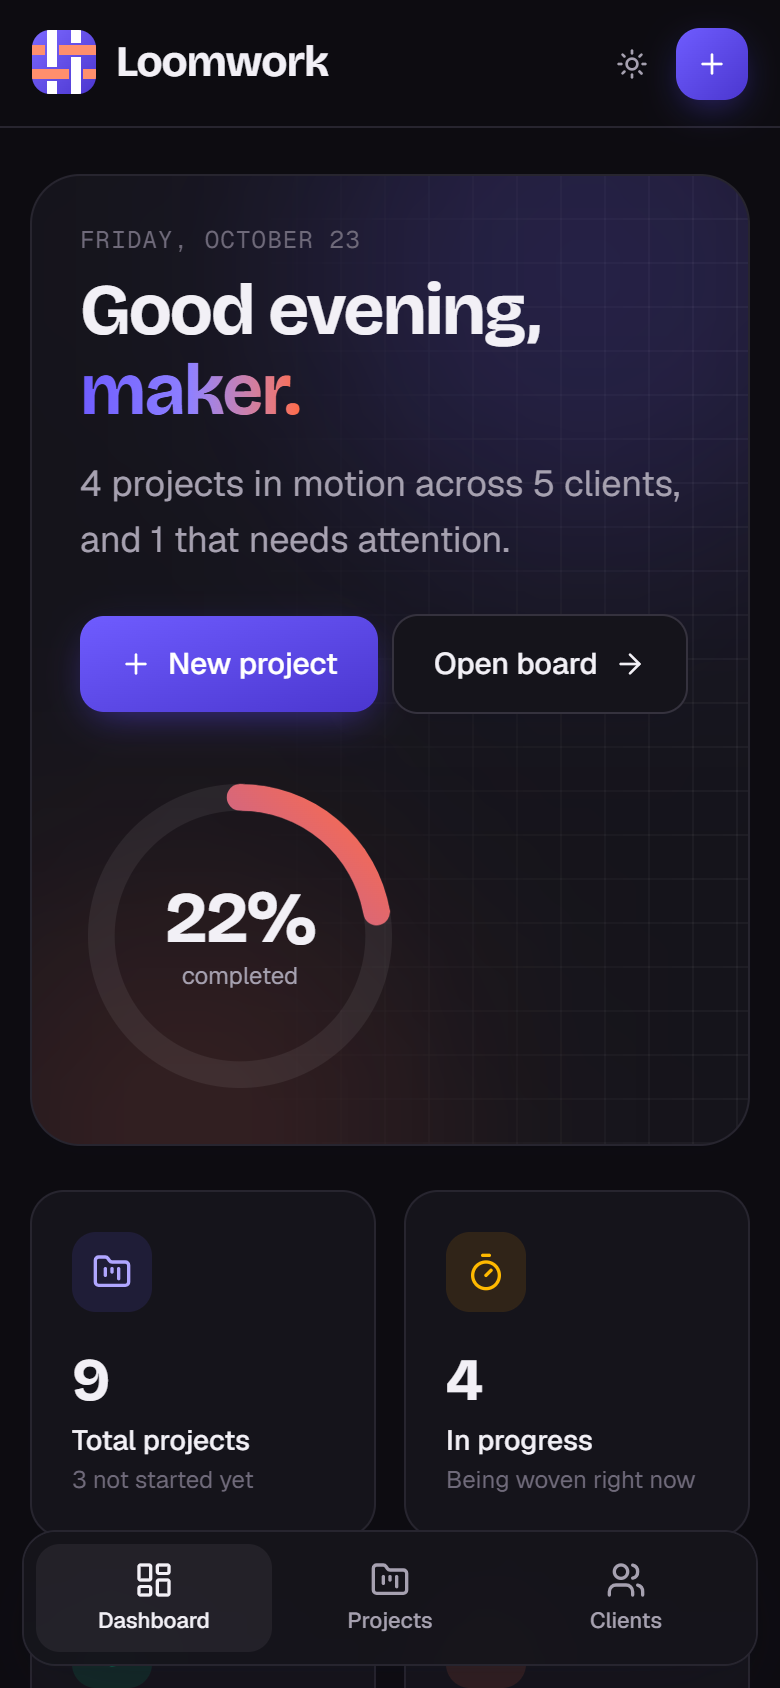
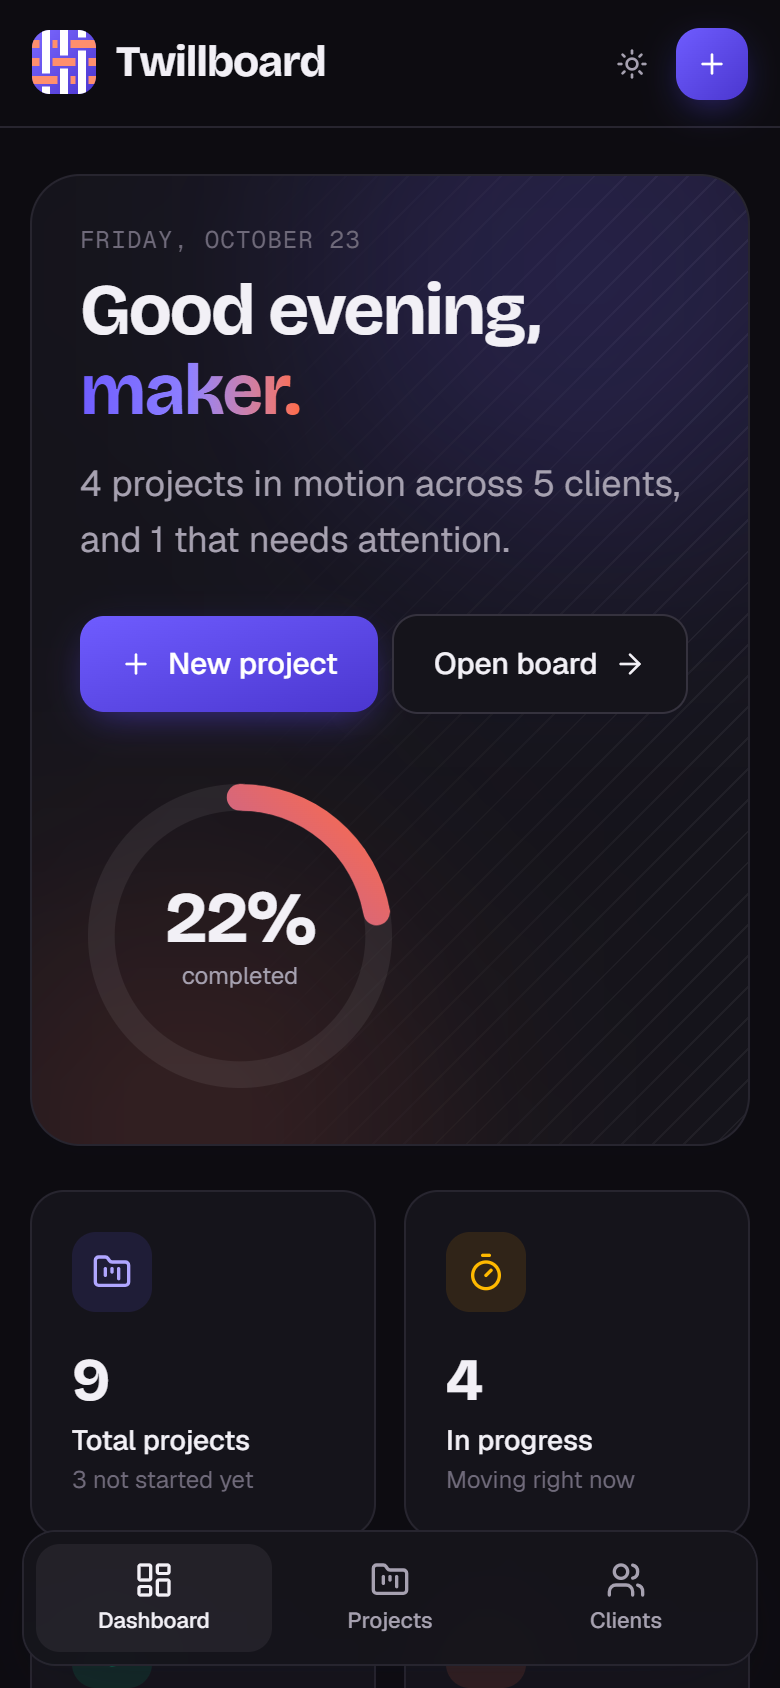
Rename Loomwork to Twillboard
loomwork.vercel.app is taken, so the app is now Twillboard
(twillboard.vercel.app is free).

- New 2/1 twill-weave logo: white warp over two coral wefts, under
  one, forming twill's diagonal; regenerated favicon, app icons,
  manifest and social image
- Background texture changed from a square grid to diagonal twill ribs
- Brand colour tokens renamed loom-* → twill-*; theme storage key,
  page titles, GraphiQL title, copy, README and env example updated
- Refreshed README screenshots

Changed region(s): [[0.5846, 0.8626, 0.8923, 0.8934], [0.1538, 0.0, 0.4308, 0.0616], [0.0308, 0.0, 0.1231, 0.0616]]

diff --git a/client/src/pages/Dashboard.jsx b/client/src/pages/Dashboard.jsx
@@ -42,7 +42,7 @@ function CompletionRing({ rate }) {
       <svg viewBox="0 0 120 120" className="size-full -rotate-90">
         <defs>
           <linearGradient id={id} x1="0" y1="0" x2="1" y2="1">
-            <stop offset="0%" stopColor="var(--color-loom-500)" />
+            <stop offset="0%" stopColor="var(--color-twill-500)" />
             <stop offset="100%" stopColor="var(--color-thread-500)" />
           </linearGradient>
         </defs>
@@ -160,19 +160,19 @@ function ProjectRow({ project, meta }) {
 function Onboarding() {
   const { newClient, newProject } = useWorkspace();
   const steps = [
-    { icon: UserPlus, title: "Add a client", text: "Every project is woven to a client.", action: newClient, cta: "Add client" },
+    { icon: UserPlus, title: "Add a client", text: "Every project belongs to a client.", action: newClient, cta: "Add client" },
     { icon: FolderKanban, title: "Create a project", text: "Set a priority and a deadline.", action: () => newProject(), cta: "New project" },
     { icon: Sparkles, title: "Move it along", text: "Drag cards across the board as work progresses." },
   ];
   return (
     <Card className="p-6 sm:p-8">
-      <h2 className="font-display text-xl font-bold tracking-tight">Let’s set up your loom</h2>
+      <h2 className="font-display text-xl font-bold tracking-tight">Let’s set up your board</h2>
       <p className="mt-1 text-sm text-muted">Three steps and your dashboard comes alive.</p>
       <ol className="mt-6 grid gap-4 sm:grid-cols-3">
         {steps.map((step, index) => (
           <li key={step.title} className="rounded-2xl bg-elevated p-5 ring-1 ring-line">
             <div className="flex items-center justify-between">
-              <step.icon className="size-5 text-loom-600 dark:text-loom-300" />
+              <step.icon className="size-5 text-twill-600 dark:text-twill-300" />
               <span className="font-mono text-xs text-subtle">0{index + 1}</span>
             </div>
             <p className="mt-4 font-semibold">{step.title}</p>
@@ -236,7 +236,7 @@ export default function Dashboard() {
   const inMotion = count("IN_PROGRESS");
   const summary =
     s.totalProjects === 0
-      ? "Your loom is empty — let’s weave your first project."
+      ? "Your board is empty — let’s stitch in your first project."
       : `${pluralize(inMotion, "project")} in motion across ${pluralize(s.totalClients, "client")}` +
         (overdue.length ? `, and ${overdue.length} that need${overdue.length === 1 ? "s" : ""} attention.` : ". Everything is on schedule.");
 
@@ -244,8 +244,8 @@ export default function Dashboard() {
     <div className="space-y-6">
       {/* Hero */}
       <section className="relative animate-rise overflow-hidden rounded-3xl bg-surface p-6 shadow-soft ring-1 ring-line sm:p-8">
-        <div className="bg-weave absolute inset-0 [mask-image:linear-gradient(to_left,black,transparent_70%)]" />
-        <div className="absolute -top-24 -right-16 size-72 rounded-full bg-loom-500/20 blur-3xl" />
+        <div className="bg-twill absolute inset-0 [mask-image:linear-gradient(to_left,black,transparent_70%)]" />
+        <div className="absolute -top-24 -right-16 size-72 rounded-full bg-twill-500/20 blur-3xl" />
         <div className="absolute -bottom-28 right-40 size-60 rounded-full bg-thread-500/15 blur-3xl" />
 
         <div className="relative flex flex-col items-start gap-8 md:flex-row md:items-center md:justify-between">
@@ -278,14 +278,14 @@ export default function Dashboard() {
               label="Total projects"
               value={s.totalProjects}
               caption={`${count("NOT_STARTED")} not started yet`}
-              tone="bg-loom-500/12 text-loom-600 dark:text-loom-300"
+              tone="bg-twill-500/12 text-twill-600 dark:text-twill-300"
               delay={60}
             />
             <StatTile
               icon={Timer}
               label="In progress"
               value={inMotion}
-              caption="Being woven right now"
+              caption="Moving right now"
               tone="bg-amber-500/12 text-amber-600 dark:text-amber-400"
               delay={120}
             />

diff --git a/client/src/index.css b/client/src/index.css
@@ -15,7 +15,7 @@
   --ink: #1b1a1f;
   --muted: #67636e;
   --subtle: #9a96a0;
-  --weave: rgb(27 26 31 / 0.05);
+  --twill-rib: rgb(27 26 31 / 0.06);
   color-scheme: light;
 }
 
@@ -28,7 +28,7 @@
   --ink: #f2f0f6;
   --muted: #a6a1b0;
   --subtle: #6f6a7a;
-  --weave: rgb(255 255 255 / 0.04);
+  --twill-rib: rgb(255 255 255 / 0.05);
   color-scheme: dark;
 }
 
@@ -48,17 +48,17 @@
   --font-display: "Bricolage Grotesque", "Geist", ui-sans-serif, system-ui, sans-serif;
   --font-mono: "Geist Mono", ui-monospace, "SFMono-Regular", Menlo, Consolas, monospace;
 
-  /* Brand: "loom" violet and "thread" coral, taken from the logo. */
-  --color-loom-50: #f2f1ff;
-  --color-loom-100: #e6e3ff;
-  --color-loom-200: #d0cbff;
-  --color-loom-300: #b0a6ff;
-  --color-loom-400: #8f80ff;
-  --color-loom-500: #6f5cff;
-  --color-loom-600: #5b45f0;
-  --color-loom-700: #4b36cf;
-  --color-loom-800: #3d2ea6;
-  --color-loom-900: #332a82;
+  /* Brand: "twill" violet and "thread" coral, taken from the logo. */
+  --color-twill-50: #f2f1ff;
+  --color-twill-100: #e6e3ff;
+  --color-twill-200: #d0cbff;
+  --color-twill-300: #b0a6ff;
+  --color-twill-400: #8f80ff;
+  --color-twill-500: #6f5cff;
+  --color-twill-600: #5b45f0;
+  --color-twill-700: #4b36cf;
+  --color-twill-800: #3d2ea6;
+  --color-twill-900: #332a82;
 
   --color-thread-300: #ffb59f;
   --color-thread-400: #ff8f6d;
@@ -93,11 +93,11 @@
   }
 
   ::selection {
-    @apply bg-loom-500/25;
+    @apply bg-twill-500/25;
   }
 
   :focus-visible {
-    @apply outline-2 outline-offset-2 outline-loom-500;
+    @apply outline-2 outline-offset-2 outline-twill-500;
   }
 
   input[type="date"]::-webkit-calendar-picker-indicator {
@@ -106,15 +106,13 @@
 }
 
 @layer components {
-  /* Signature woven-grid texture used behind hero areas. */
-  .bg-weave {
-    background-image:
-      repeating-linear-gradient(90deg, var(--weave) 0 1px, transparent 1px 22px),
-      repeating-linear-gradient(0deg, var(--weave) 0 1px, transparent 1px 22px);
+  /* Signature twill texture (fine diagonal ribs, like denim) behind hero areas. */
+  .bg-twill {
+    background-image: repeating-linear-gradient(-45deg, var(--twill-rib) 0 1px, transparent 1px 11px);
   }
 
   .text-gradient {
-    @apply bg-linear-to-r from-loom-500 via-loom-400 to-thread-500 bg-clip-text text-transparent;
+    @apply bg-linear-to-r from-twill-500 via-twill-400 to-thread-500 bg-clip-text text-transparent;
   }
 }
 

diff --git a/client/index.html b/client/index.html
@@ -3,10 +3,10 @@
   <head>
     <meta charset="UTF-8" />
     <meta name="viewport" content="width=device-width, initial-scale=1.0" />
-    <title>Loomwork — Weave clients and projects into one clear picture</title>
+    <title>Twillboard — Clients and projects, woven into one board.</title>
     <meta
       name="description"
-      content="Loomwork is a calm, fast project manager for freelancers and small studios. Track clients, projects, deadlines and progress in one place."
+      content="Twillboard is a calm, fast project manager for freelancers and small studios. Track clients, projects, deadlines and progress in one place."
     />
     <meta name="theme-color" content="#f7f5f2" media="(prefers-color-scheme: light)" />
     <meta name="theme-color" content="#0d0c11" media="(prefers-color-scheme: dark)" />
@@ -17,8 +17,8 @@
     <link rel="manifest" href="/manifest.webmanifest" />
 
     <meta property="og:type" content="website" />
-    <meta property="og:title" content="Loomwork" />
-    <meta property="og:description" content="Weave clients and projects into one clear picture." />
+    <meta property="og:title" content="Twillboard" />
+    <meta property="og:description" content="Clients and projects, woven into one board." />
     <meta property="og:image" content="/og-image.png" />
     <meta name="twitter:card" content="summary_large_image" />
 
@@ -32,14 +32,14 @@
     <!-- Apply the saved theme before first paint to avoid a light/dark flash. -->
     <script>
       try {
-        const saved = localStorage.getItem("loomwork-theme");
+        const saved = localStorage.getItem("twillboard-theme");
         const dark = saved ? saved === "dark" : matchMedia("(prefers-color-scheme: dark)").matches;
         document.documentElement.classList.toggle("dark", dark);
       } catch {}
     </script>
   </head>
   <body>
-    <noscript>Loomwork needs JavaScript enabled to run.</noscript>
+    <noscript>Twillboard needs JavaScript enabled to run.</noscript>
     <div id="root"></div>
     <script type="module" src="/src/main.jsx"></script>
   </body>

diff --git a/client/src/components/brand/Logo.jsx b/client/src/components/brand/Logo.jsx
@@ -1,10 +1,10 @@
 import { useId } from "react";
 
-// The Loomwork mark: a swatch of plain-weave fabric. Two warp (white) and two
-// weft (coral) threads cross over/under each other — clients and projects
-// interlaced. Each "under" strand is drawn with a gap where the "over" strand
-// crosses it, and threads run off the clipped edges like cut cloth.
-// Keep in sync with public/favicon.svg.
+// The Twillboard mark: a swatch of 2/1 twill. Each white warp thread passes
+// over two coral weft threads and under one, shifting a step per row, so the
+// coral "under" points line up into twill's signature diagonal. Each "under"
+// strand is drawn with a gap where the "over" strand crosses it, and threads
+// run off the clipped edges like cut cloth. Keep in sync with public/favicon.svg.
 export function LogoMark({ className = "size-8" }) {
   const id = useId();
   return (
@@ -19,9 +19,12 @@ export function LogoMark({ className = "size-8" }) {
         </clipPath>
       </defs>
       <rect width="32" height="32" rx="9" fill={`url(#${id}-bg)`} />
-      <g strokeWidth="5" fill="none" clipPath={`url(#${id}-clip)`}>
-        <path d="M10 0v18.5M10 25.5V32M22 0v6.5M22 13.5V32" stroke="#fff" />
-        <path d="M0 10h6.5M13.5 10H32M0 22h18.5M25.5 22H32" stroke="#ff8f6d" />
+      <g strokeWidth="4" fill="none" clipPath={`url(#${id}-clip)`}>
+        <path d="M7 0V21.75M7 28.25V32M16 0V12.75M16 19.25V32M25 0V3.75M25 10.25V32" stroke="#fff" />
+        <path
+          d="M0 7H3.75M10.25 7H12.75M19.25 7H32M0 16H3.75M10.25 16H21.75M28.25 16H32M0 25H12.75M19.25 25H21.75M28.25 25H32"
+          stroke="#ff8f6d"
+        />
       </g>
     </svg>
   );
@@ -31,7 +34,7 @@ export function Logo({ className = "" }) {
   return (
     <span className={`flex items-center gap-2.5 ${className}`}>
       <LogoMark />
-      <span className="font-display text-[1.35rem] font-bold tracking-tight">Loomwork</span>
+      <span className="font-display text-[1.35rem] font-bold tracking-tight">Twillboard</span>
     </span>
   );
 }

diff --git a/client/src/components/layout/AppLayout.jsx b/client/src/components/layout/AppLayout.jsx
@@ -39,8 +39,8 @@ function Sidebar() {
   const { newProject } = useWorkspace();
   return (
     <aside className="fixed inset-y-0 left-0 z-30 hidden w-64 flex-col border-r border-line bg-surface/70 backdrop-blur-xl lg:flex">
-      <div className="bg-weave relative px-6 pt-6 pb-5 [mask-image:linear-gradient(black_60%,transparent)]">
-        <NavLink to="/" aria-label="Loomwork home">
+      <div className="bg-twill relative px-6 pt-6 pb-5 [mask-image:linear-gradient(black_60%,transparent)]">
+        <NavLink to="/" aria-label="Twillboard home">
           <Logo />
         </NavLink>
       </div>
@@ -68,9 +68,9 @@ function Sidebar() {
           >
             {({ isActive }) => (
               <>
-                <Icon className={`size-[18px] ${isActive ? "text-loom-600 dark:text-loom-300" : ""}`} />
+                <Icon className={`size-[18px] ${isActive ? "text-twill-600 dark:text-twill-300" : ""}`} />
                 {label}
-                {isActive && <span className="ml-auto h-4 w-1 rounded-full bg-linear-to-b from-loom-500 to-thread-500" />}
+                {isActive && <span className="ml-auto h-4 w-1 rounded-full bg-linear-to-b from-twill-500 to-thread-500" />}
               </>
             )}
           </NavLink>
@@ -82,7 +82,7 @@ function Sidebar() {
           <Kbd>N</Kbd> project <Kbd>C</Kbd> client
         </p>
         <div className="flex items-center justify-between">
-          <p className="text-xs text-subtle">Woven with GraphQL</p>
+          <p className="text-xs text-subtle">Stitched with GraphQL</p>
           <ThemeToggle />
         </div>
       </div>
@@ -95,7 +95,7 @@ function MobileBar() {
   return (
     <>
       <header className="sticky top-0 z-30 flex h-16 items-center justify-between border-b border-line bg-canvas/80 px-4 backdrop-blur-xl lg:hidden">
-        <NavLink to="/" aria-label="Loomwork home">
+        <NavLink to="/" aria-label="Twillboard home">
           <Logo />
         </NavLink>
         <div className="flex items-center gap-1">

diff --git a/client/src/components/projects/ProjectBoard.jsx b/client/src/components/projects/ProjectBoard.jsx
@@ -41,7 +41,7 @@ export function ProjectBoard({ projects }) {
             onDrop={(e) => handleDrop(e, status.value)}
             className={`flex min-h-72 w-[85%] shrink-0 snap-start flex-col rounded-3xl bg-linear-to-b to-transparent p-3 ring-1 transition sm:w-auto ${
               status.column
-            } ${isOver ? "ring-2 ring-loom-500/60 bg-loom-500/5" : "ring-line"}`}
+            } ${isOver ? "ring-2 ring-twill-500/60 bg-twill-500/5" : "ring-line"}`}
           >
             <header className="mb-3 flex items-center justify-between px-1.5 pt-1">
               <h2 className="flex items-center gap-2 text-sm font-semibold">
@@ -81,7 +81,7 @@ export function ProjectBoard({ projects }) {
               {items.length === 0 && (
                 <div
                   className={`grid flex-1 place-items-center rounded-2xl border-2 border-dashed p-6 text-center text-sm transition ${
-                    isOver ? "border-loom-500/50 text-loom-600 dark:text-loom-300" : "border-line text-subtle"
+                    isOver ? "border-twill-500/50 text-twill-600 dark:text-twill-300" : "border-line text-subtle"
                   }`}
                 >
                   Drop a project here

diff --git a/client/src/pages/ProjectDetail.jsx b/client/src/pages/ProjectDetail.jsx
@@ -175,14 +175,14 @@ export default function ProjectDetail() {
 
         <aside>
           <Card className="relative overflow-hidden p-6">
-            <div className="bg-weave absolute inset-x-0 top-0 h-24 [mask-image:linear-gradient(black,transparent)]" />
+            <div className="bg-twill absolute inset-x-0 top-0 h-24 [mask-image:linear-gradient(black,transparent)]" />
             <h2 className="relative mb-5 text-sm font-semibold text-muted">Client</h2>
             {client ? (
               <div className="relative">
                 <Link to={`/clients/${client.id}`} className="group flex items-center gap-3">
                   <Avatar name={client.name} size="lg" />
                   <div className="min-w-0">
-                    <p className="truncate font-display text-lg font-bold group-hover:text-loom-600 dark:group-hover:text-loom-300">
+                    <p className="truncate font-display text-lg font-bold group-hover:text-twill-600 dark:group-hover:text-twill-300">
                       {client.name}
                     </p>
                     {client.company && <p className="truncate text-sm text-muted">{client.company}</p>}

diff --git a/client/src/pages/Clients.jsx b/client/src/pages/Clients.jsx
@@ -38,7 +38,7 @@ export default function Clients() {
           </Button>
         }
       >
-        {data ? `${pluralize(all.length, "client")} you’re weaving with.` : "Loading your clients…"}
+        {data ? `${pluralize(all.length, "client")} you’re working with.` : "Loading your clients…"}
       </PageHeader>
 
       {all.length > 0 && (
@@ -50,7 +50,7 @@ export default function Clients() {
             value={query}
             onChange={(e) => setQuery(e.target.value)}
             placeholder="Search by name, company, email…"
-            className="h-10 w-full rounded-xl bg-surface pr-3 pl-10 text-sm shadow-soft ring-1 ring-line transition placeholder:text-subtle focus:ring-2 focus:ring-loom-500 focus:outline-none"
+            className="h-10 w-full rounded-xl bg-surface pr-3 pl-10 text-sm shadow-soft ring-1 ring-line transition placeholder:text-subtle focus:ring-2 focus:ring-twill-500 focus:outline-none"
           />
         </label>
       )}

diff --git a/client/src/pages/Projects.jsx b/client/src/pages/Projects.jsx
@@ -84,7 +84,7 @@ export default function Projects() {
           </Button>
         }
       >
-        {data ? `${pluralize(all.length, "project")} on the loom.` : "Loading your projects…"}
+        {data ? `${pluralize(all.length, "project")} on the board.` : "Loading your projects…"}
       </PageHeader>
 
       {/* Toolbar */}
@@ -97,7 +97,7 @@ export default function Projects() {
             value={query}
             onChange={(e) => setParam("q", e.target.value)}
             placeholder="Search by name, description or client…"
-            className="h-10 w-full rounded-xl bg-surface pr-3 pl-10 text-sm shadow-soft ring-1 ring-line transition placeholder:text-subtle focus:ring-2 focus:ring-loom-500 focus:outline-none"
+            className="h-10 w-full rounded-xl bg-surface pr-3 pl-10 text-sm shadow-soft ring-1 ring-line transition placeholder:text-subtle focus:ring-2 focus:ring-twill-500 focus:outline-none"
           />
         </label>
 

diff --git a/client/src/components/ui/States.jsx b/client/src/components/ui/States.jsx
@@ -17,9 +17,9 @@ export function Skeleton({ className = "" }) {
 export function EmptyState({ icon: Icon, title, children, action }) {
   return (
     <div className="relative overflow-hidden rounded-3xl border border-dashed border-line-strong px-6 py-14 text-center">
-      <div className="bg-weave absolute inset-0 [mask-image:radial-gradient(circle,black,transparent_70%)]" />
+      <div className="bg-twill absolute inset-0 [mask-image:radial-gradient(circle,black,transparent_70%)]" />
       <div className="relative">
-        <div className="mx-auto mb-4 grid size-14 place-items-center rounded-2xl bg-loom-500/10 text-loom-600 ring-1 ring-loom-500/20 dark:text-loom-300">
+        <div className="mx-auto mb-4 grid size-14 place-items-center rounded-2xl bg-twill-500/10 text-twill-600 ring-1 ring-twill-500/20 dark:text-twill-300">
           <Icon className="size-6" />
         </div>
         <h3 className="font-display text-lg font-bold">{title}</h3>

diff --git a/client/src/pages/ClientDetail.jsx b/client/src/pages/ClientDetail.jsx
@@ -61,8 +61,8 @@ export default function ClientDetail() {
       {back}
 
       <section className="relative mb-8 animate-rise overflow-hidden rounded-3xl bg-surface p-6 shadow-soft ring-1 ring-line sm:p-8">
-        <div className="bg-weave absolute inset-0 [mask-image:linear-gradient(to_left,black,transparent_60%)]" />
-        <div className="absolute -top-20 -right-10 size-64 rounded-full bg-loom-500/15 blur-3xl" />
+        <div className="bg-twill absolute inset-0 [mask-image:linear-gradient(to_left,black,transparent_60%)]" />
+        <div className="absolute -top-20 -right-10 size-64 rounded-full bg-twill-500/15 blur-3xl" />
 
         <div className="relative flex flex-col gap-6 sm:flex-row sm:items-start sm:justify-between">
           <div className="flex items-center gap-4">

diff --git a/client/src/components/ui/Button.jsx b/client/src/components/ui/Button.jsx
@@ -7,9 +7,9 @@ const base =
 
 const variants = {
   primary:
-    "bg-ink text-canvas shadow-soft hover:bg-ink/88 dark:bg-loom-500 dark:text-white dark:hover:bg-loom-400",
+    "bg-ink text-canvas shadow-soft hover:bg-ink/88 dark:bg-twill-500 dark:text-white dark:hover:bg-twill-400",
   brand:
-    "bg-linear-to-br from-loom-500 to-loom-700 text-white shadow-[0_6px_20px_-6px] shadow-loom-600/60 hover:brightness-110",
+    "bg-linear-to-br from-twill-500 to-twill-700 text-white shadow-[0_6px_20px_-6px] shadow-twill-600/60 hover:brightness-110",
   secondary: "bg-surface text-ink ring-1 ring-line-strong shadow-soft hover:bg-elevated hover:ring-subtle/60",
   ghost: "text-muted hover:bg-ink/5 hover:text-ink",
   danger: "bg-red-600 text-white shadow-soft hover:bg-red-500",
